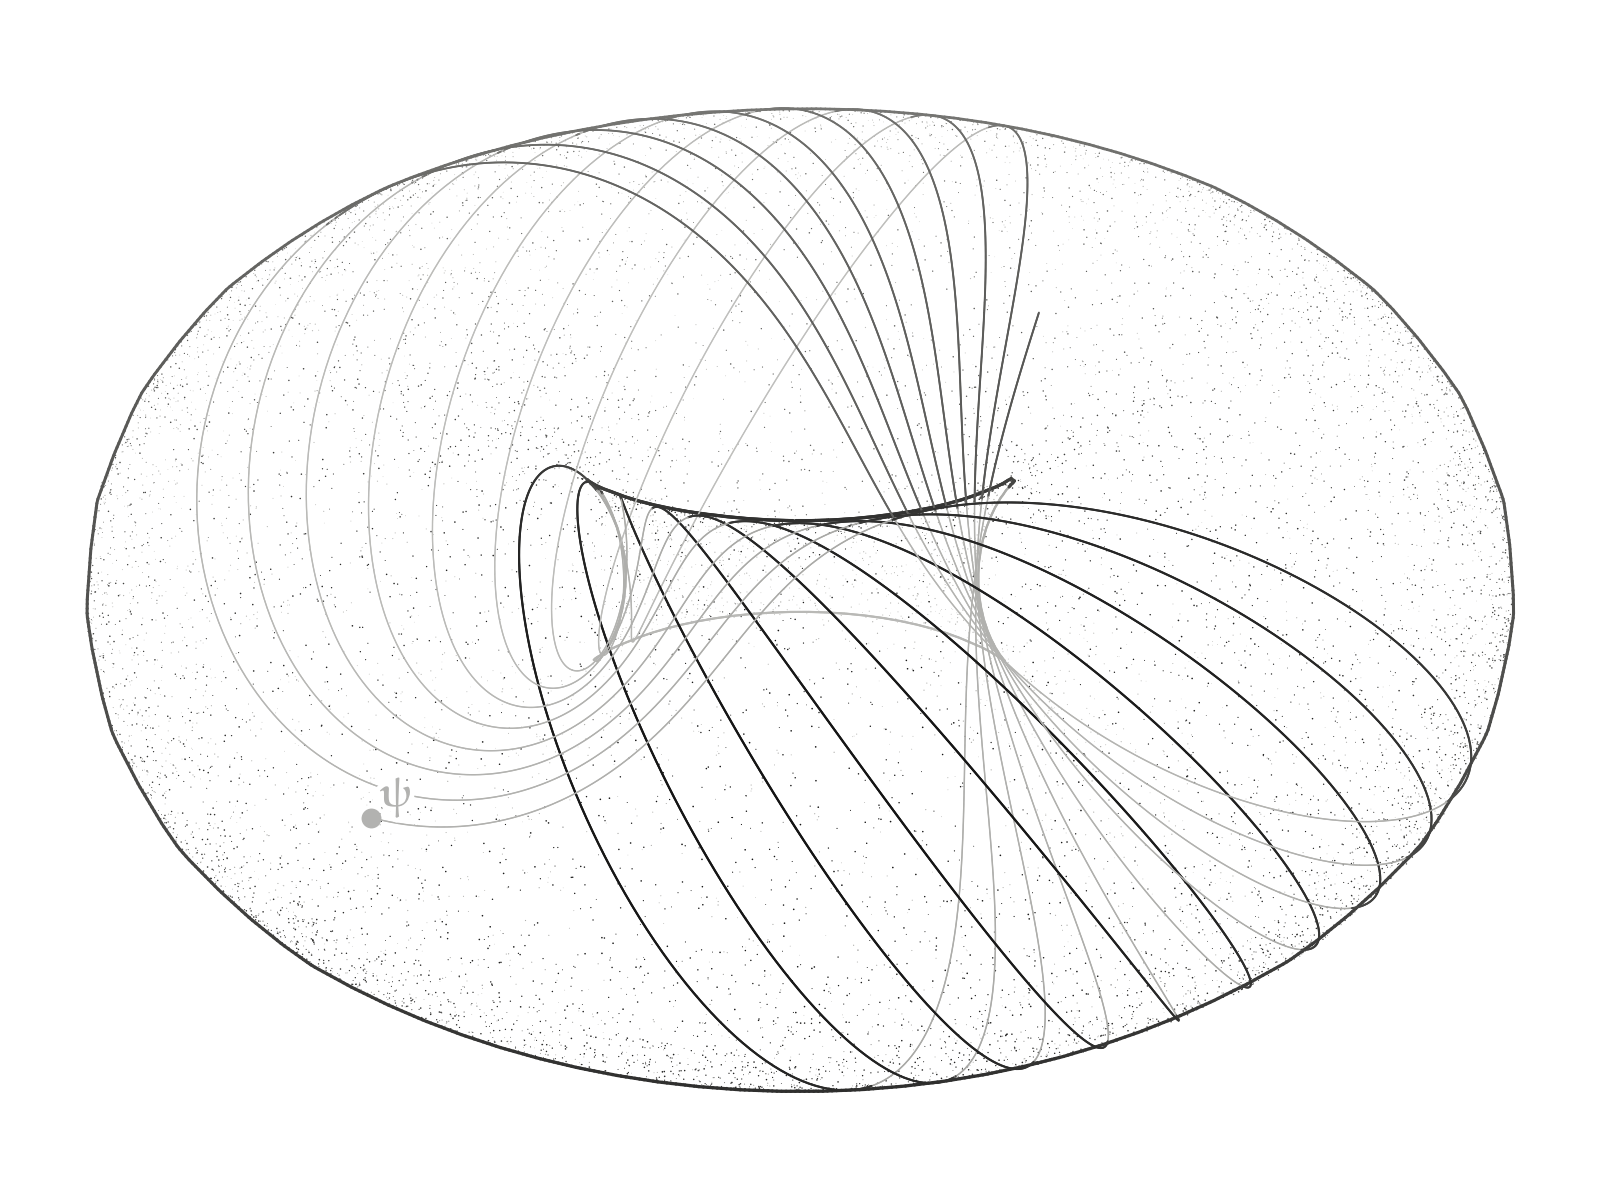
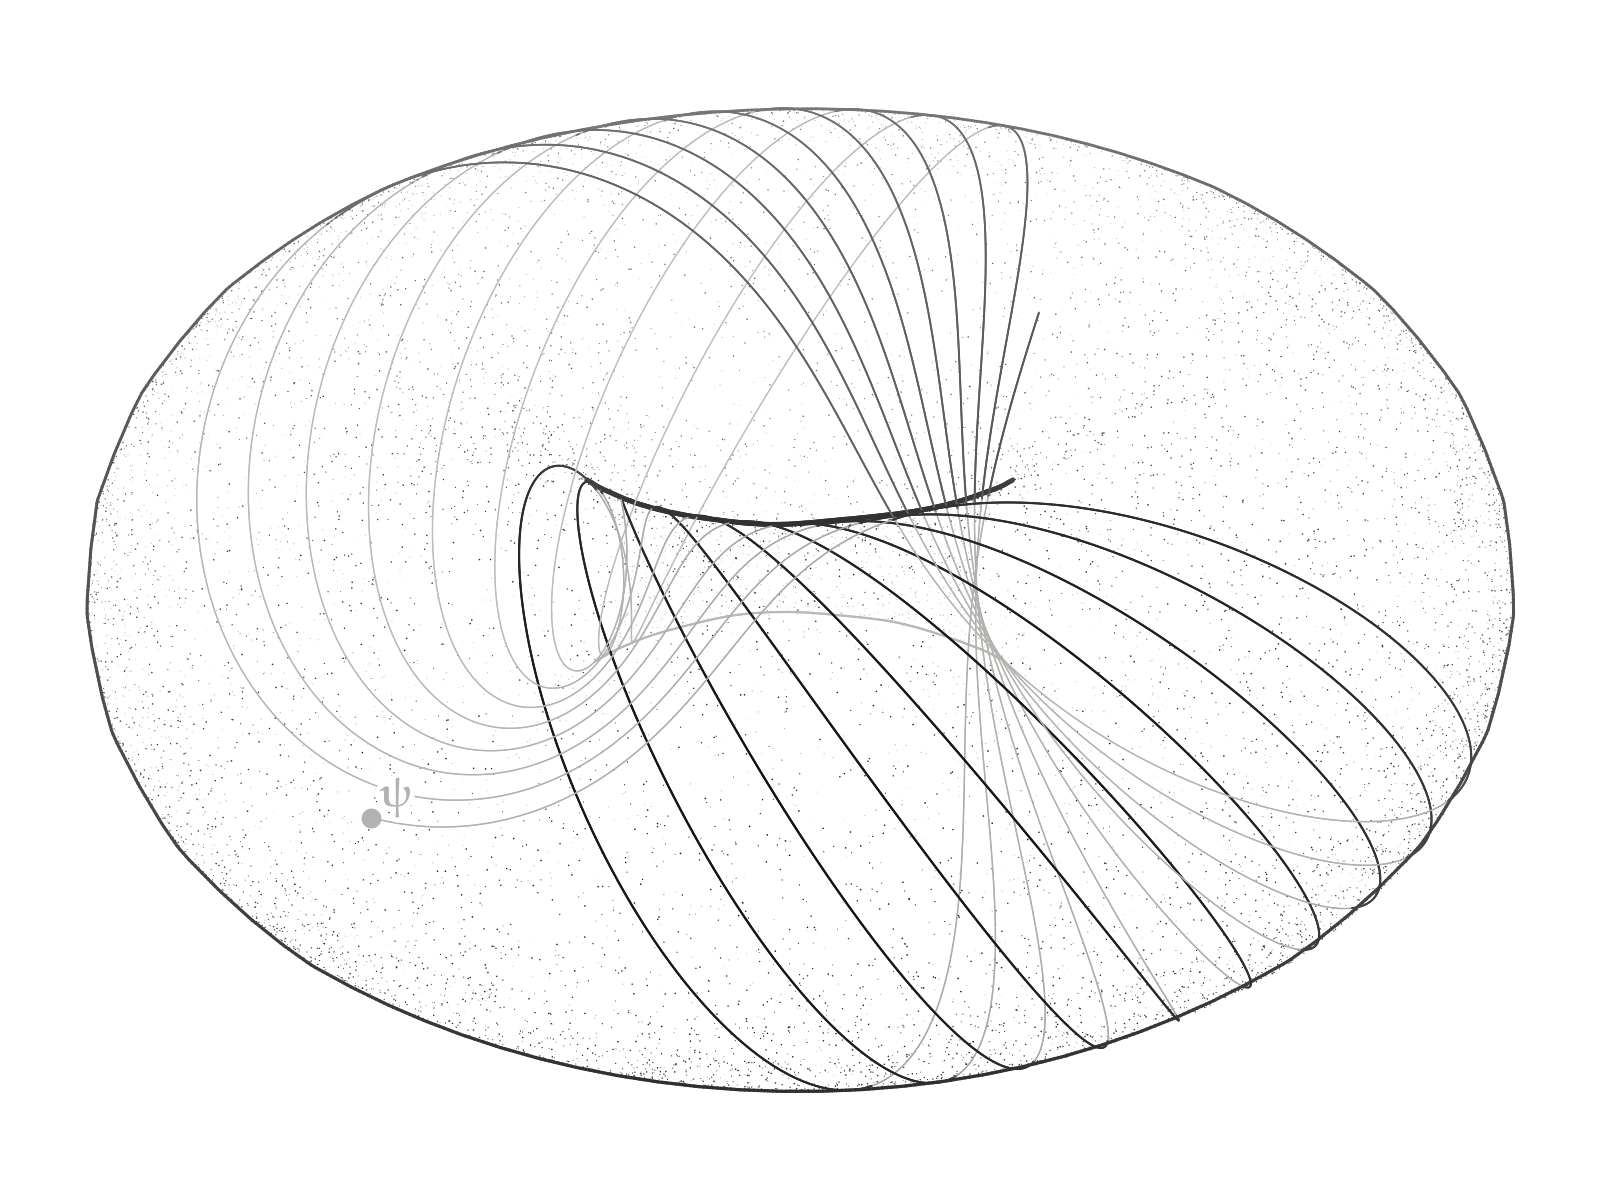
Draw a shell's contour arc by arc between its cusps
Around a torus's hole the contour is one curve with four cusps, and the
short arcs joining the near lip to the far arc made the hole read as a
closed outline. The contour is now cut at its cusps: a visible arc that
ends in cusps is drawn bold as a lip, and a hidden arc that meets a
visible one at a cusp is left out, as a hand drawing would leave it.

diff --git a/src/morphis/visuals/ink/sketch.py b/src/morphis/visuals/ink/sketch.py
@@ -313,6 +313,7 @@ class Sketch:
         points: Vector | NDArray,
         cells: NDArray,
         weight: str = "regular",
+        lip_weight: str = "bold",
         stipple: float = 1.0,
         light: tuple[float, float, float] = (-0.45, 0.6, 0.65),
         far_level: float = 0.4,
@@ -334,6 +335,13 @@ class Sketch:
         surface turns edge-on to the eye and heavier on the side away from the
         light. No grid is drawn.
 
+        The contour is cut at its cusps, where it turns back on the page. An
+        arc hidden behind a nearer sheet is drawn faintly, except where it
+        meets a visible arc at a cusp: that is the contour slipping out of
+        sight past the cusp, and a hand drawing leaves it out. Around the hole
+        of a torus this keeps the near lip and the far arc seen through the
+        tube, without the short arcs that join them.
+
         The shell is translucent, not transparent: anything a nearer sheet of
         it covers, whether its own far contour and stipple or the curves and
         dots given with it, is drawn at the strength veil. Covering is decided
@@ -343,6 +351,7 @@ class Sketch:
             points: Vertex positions, true-space Vectors (projected) or drawing triples, shape (n, 3)
             cells: Vertex indices per cell, squares in binary corner order (00, 10, 01, 11) or triangles
             weight: Stroke weight of the nearest contour
+            lip_weight: Stroke weight of a visible contour arc that ends in cusps, such as a hole's near rim
             stipple: Stipple density multiplier; 0 for the contour alone
             light: Light direction in the camera frame (right, up, toward the eye)
             far_level: Graphite level of the farthest marks in front of the shell
@@ -362,6 +371,7 @@ class Sketch:
         style = {
             "triangles": triangles,
             "weight": weight,
+            "lip_weight": lip_weight,
             "stipple": stipple,
             "light": light,
             "far_level": far_level,
@@ -604,9 +614,12 @@ class Sketch:
         facing = einsum("na, na -> n", unit, toward)
         vertex_facing = einsum("na, na -> n", vertex_normals, self._toward_eye(points))
 
-        # Contour: where the vertex facing changes sign
+        # Contour: where the vertex facing changes sign, drawn arc by arc between its cusps
         for contour in _contours(points, triangles, vertex_facing):
-            ink(*self.camera.project(contour), style["weight"], 0.6, zorder + 1e-5)
+            contour_page, contour_depth = self.camera.project(contour)
+            for arc, is_lip in _drawn_arcs(contour_page, buffer.covers(contour_page, contour_depth)):
+                weight = style["lip_weight"] if is_lip else style["weight"]
+                ink(contour_page[arc], contour_depth[arc], weight, 0.6, zorder + 1e-5)
 
         if style["stipple"] > 0:
             # Stipple: densest where the surface turns edge-on, heavier away from the light
@@ -926,6 +939,55 @@ class _DepthBuffer:
         nearest[is_on] = self.depth[pixels[is_on, 1], pixels[is_on, 0]]
 
         return nearest < asarray(depth) - self.tolerance
+
+
+def _drawn_arcs(page: NDArray, covered: NDArray, reversal: float = 2.0) -> list[tuple[NDArray, bool]]:
+    """
+    Index ranges of a contour's arcs between cusps, without the hidden arcs that meet a visible one.
+
+    Each comes with whether it is a lip: a visible arc that ends in cusps,
+    such as the near rim of a torus's hole.
+
+    A cusp is where the polyline turns back on the page by more than the
+    reversal angle, in radians. A closed contour wraps around, so its first
+    and last arcs are joined into one.
+    """
+    count = len(page)
+    is_closed = norm(page[0] - page[-1]) < 1e-9 * (1.0 + norm(page[0]))
+
+    # The turn at each interior point, and for a closed contour also at the seam, its first point
+    steps = page[1:] - page[:-1]
+    before, after = (concatenate([steps[-1:], steps[:-1]]), steps) if is_closed else (steps[:-1], steps[1:])
+    lengths = clamp(norm(before, axis=-1) * norm(after, axis=-1), 1e-15, None)
+    turns = einsum("na, na -> n", before, after) / lengths
+    offset = 0 if is_closed else 1
+    cusps = [n + offset for n, turn in enumerate(turns) if turn < cos(reversal)]
+    if not cusps:
+        arcs = [arange(count)]
+
+    elif is_closed:
+        # Start at the first cusp and go once around
+        ends = [*cusps, cusps[0] + count - 1]
+        arcs = [arange(start, stop + 1) % (count - 1) for start, stop in zip(ends[:-1], ends[1:], strict=True)]
+
+    else:
+        ends = [0, *cusps, count - 1]
+        arcs = [arange(start, stop + 1) for start, stop in zip(ends[:-1], ends[1:], strict=True)]
+
+    is_hidden = [bool(covered[arc].mean() > 0.5) for arc in arcs]
+    total = len(arcs)
+
+    def neighbors(n: int) -> list[int]:
+        around = [(n - 1) % total, (n + 1) % total] if is_closed else [n - 1, n + 1]
+        return [m for m in around if 0 <= m < total and m != n]
+
+    kept = [
+        (arc, bool(cusps) and not is_hidden[n])
+        for n, arc in enumerate(arcs)
+        if not (is_hidden[n] and any(not is_hidden[m] for m in neighbors(n)))
+    ]
+
+    return kept
 
 
 def _contours(points: NDArray, triangles: NDArray, values: NDArray) -> list[NDArray]:

diff --git a/src/morphis/visuals/tests/test_ink.py b/src/morphis/visuals/tests/test_ink.py
@@ -441,3 +441,21 @@ class TestShell:
         marks_page, marks_depth = camera.project(array([toward, -toward]))
 
         assert buffer.covers(marks_page, marks_depth).tolist() == [False, True]
+
+    def test_hole_keeps_lip_and_far_arc_without_connectors(self):
+        from numpy import linspace, stack
+
+        from morphis.visuals.ink.sketch import _drawn_arcs
+
+        # A closed curve with four cusps: top arc, right side, bottom arc, left side
+        top = stack([linspace(-1, 1, 20), 0 * linspace(0, 1, 20) + 1], axis=-1)
+        right = stack([0 * linspace(0, 1, 8) + 1, linspace(1, -1, 8)], axis=-1)
+        bottom = stack([linspace(1, -1, 20), 0 * linspace(0, 1, 20) - 1], axis=-1)
+        left = stack([0 * linspace(0, 1, 8) - 1, linspace(-1, 1, 8)], axis=-1)
+        page = concatenate([top, right[1:], bottom[1:], left[1:]])
+        covered = page[:, 1] < 0.99  # only the top arc is visible
+
+        arcs = _drawn_arcs(page, covered, reversal=1.2)
+        drawn = [(round(float(page[arc][:, 1].mean()), 2), is_lip) for arc, is_lip in arcs]
+
+        assert sorted(drawn) == [(-1.0, False), (1.0, True)]

diff --git a/docs/5_design/4_visuals_architecture.md b/docs/5_design/4_visuals_architecture.md
@@ -219,7 +219,7 @@ sketch.vector(e_a + f_b, label="$ψ$")
 sketch.save("figures/example.png")
 ```
 
-**Marks.** `space`, `plane` (stippled parallelogram with a dashed grid), `vector` (pen arrowhead, optional label beside the shaft midpoint), `line` (dashed construction line), `circle` (circle or arc in a plane, optional arrow), `curve` (polyline through points or a lot-shaped `Vector`, solid or dotted), `shell` (a translucent mesh in pen and stipple, with no grid: its contour inked and its body stippled densest where it turns edge-on; whatever a nearer sheet covers, including curves and dots given with it, is veiled, decided against a depth buffer of the shell), `surface` (an opaque shaded mesh painted far to near), `point`, and `label`. Marks are recorded in drawing coordinates and rendered only on `save`/`render`, so page bounds, stroke scale, and depth order come from the whole figure. Order is by layer (space, planes, construction lines and curves, vectors, points, labels), then far to near.
+**Marks.** `space`, `plane` (stippled parallelogram with a dashed grid), `vector` (pen arrowhead, optional label beside the shaft midpoint), `line` (dashed construction line), `circle` (circle or arc in a plane, optional arrow), `curve` (polyline through points or a lot-shaped `Vector`, solid or dotted), `shell` (a translucent mesh in pen and stipple, with no grid: its contour inked arc by arc between cusps, a visible arc ending in cusps bold as a lip and a hidden arc meeting a visible one at a cusp left out, and its body stippled densest where it turns edge-on; whatever a nearer sheet covers, including curves and dots given with it, is veiled, decided against a depth buffer of the shell), `surface` (an opaque shaded mesh painted far to near), `point`, and `label`. Marks are recorded in drawing coordinates and rendered only on `save`/`render`, so page bounds, stroke scale, and depth order come from the whole figure. Order is by layer (space, planes, construction lines and curves, vectors, points, labels), then far to near.
 
 **Organic space.** `OrganicSpace` is a star-shaped surface whose radius along a unit direction u is `1 + lumpiness · Σ a_k cos(π f_k (u · d_k) + φ_k) / Σ a_k`, with seeded random directions d_k, frequencies f_k up to `detail`, phases φ_k, and amplitudes a_k ∝ 1/f_k. It is then scaled per axis by `stretch` and by `size`. The silhouette is computed for the camera by projecting a Fibonacci-spiral sampling of the surface and keeping the farthest point at each angle about the projected center, so it stays correct as the camera moves. Shading is rim stipple: dot density falls off exponentially inward from the silhouette and is heavier on a chosen shadow side.
 

diff --git a/docs/2_examples/3_qutrit-evolution.md b/docs/2_examples/3_qutrit-evolution.md
@@ -127,7 +127,7 @@ PROJECTION = Projection.stereographic(RADIUS * basis_vector(4, EXCITED.target)) 
 
 The only things the figure gives up are the ones the physics gives up: the global phase, removed before drawing, and the constant ground amplitude. Distances on the torus are distorted by the conformal factor of the stereographic map, larger near the pole, and angles between curves are kept.
 
-The ink `Sketch` draws the torus as a translucent `shell`, in pen and stipple and with no grid. Its contour, the curve where the surface turns from facing the eye to facing away, is found on the mesh of the patch from normals interpolated between vertices, and inked with a pen wobble, lighter the farther it is. Its body is stippled, densest where the surface turns edge-on to the eye and heavier on the side away from the light. The cusped curve around the hole is part of the true contour of a torus of revolution seen from above its equator.
+The ink `Sketch` draws the torus as a translucent `shell`, in pen and stipple and with no grid. Its contour, the curve where the surface turns from facing the eye to facing away, is found on the mesh of the patch from normals interpolated between vertices, and inked with a pen wobble, lighter the farther it is. Its body is stippled, densest where the surface turns edge-on to the eye and heavier on the side away from the light. Around the hole the true contour of a torus seen from above its equator is one curve with four cusps: the near lip at the top, an arc on the far side of the tube at the bottom, and two short arcs joining them past the cusps. The shell cuts the contour at its cusps and draws it as a hand drawing would: the near lip bold, the bottom arc faintly through the tube, and the joining arcs, a hidden arc meeting a visible one at a cusp, not at all.
 
 The shell is translucent, not transparent. It rasterizes a depth buffer of itself on the page, and whatever a nearer sheet covers is drawn at a fraction of its strength: its own far contour and far stipple, and the orbit and the state, which are given to the shell so that they take part. The stretches of orbit on the near face of the tube are inked dark, and the stretches behind it show faintly through, so the near lip of the hole reads in front of the far one.
 
